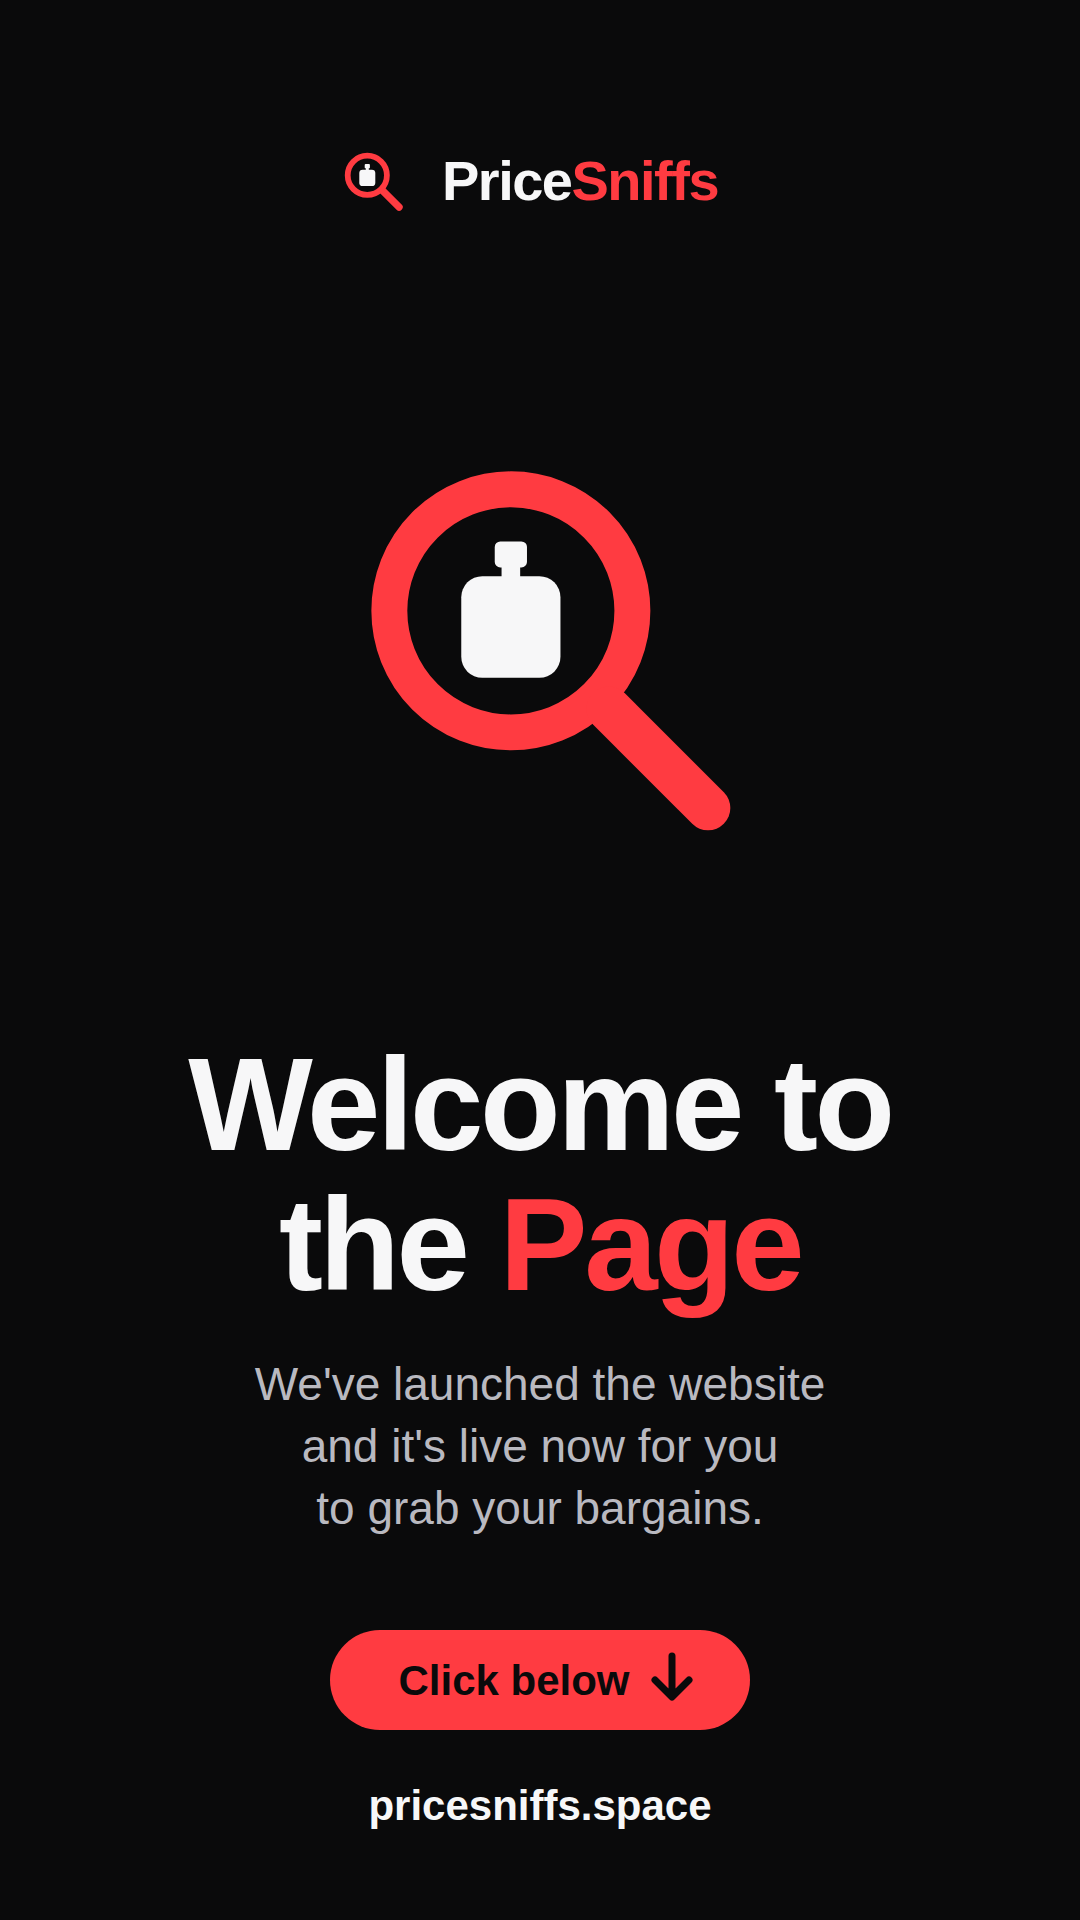
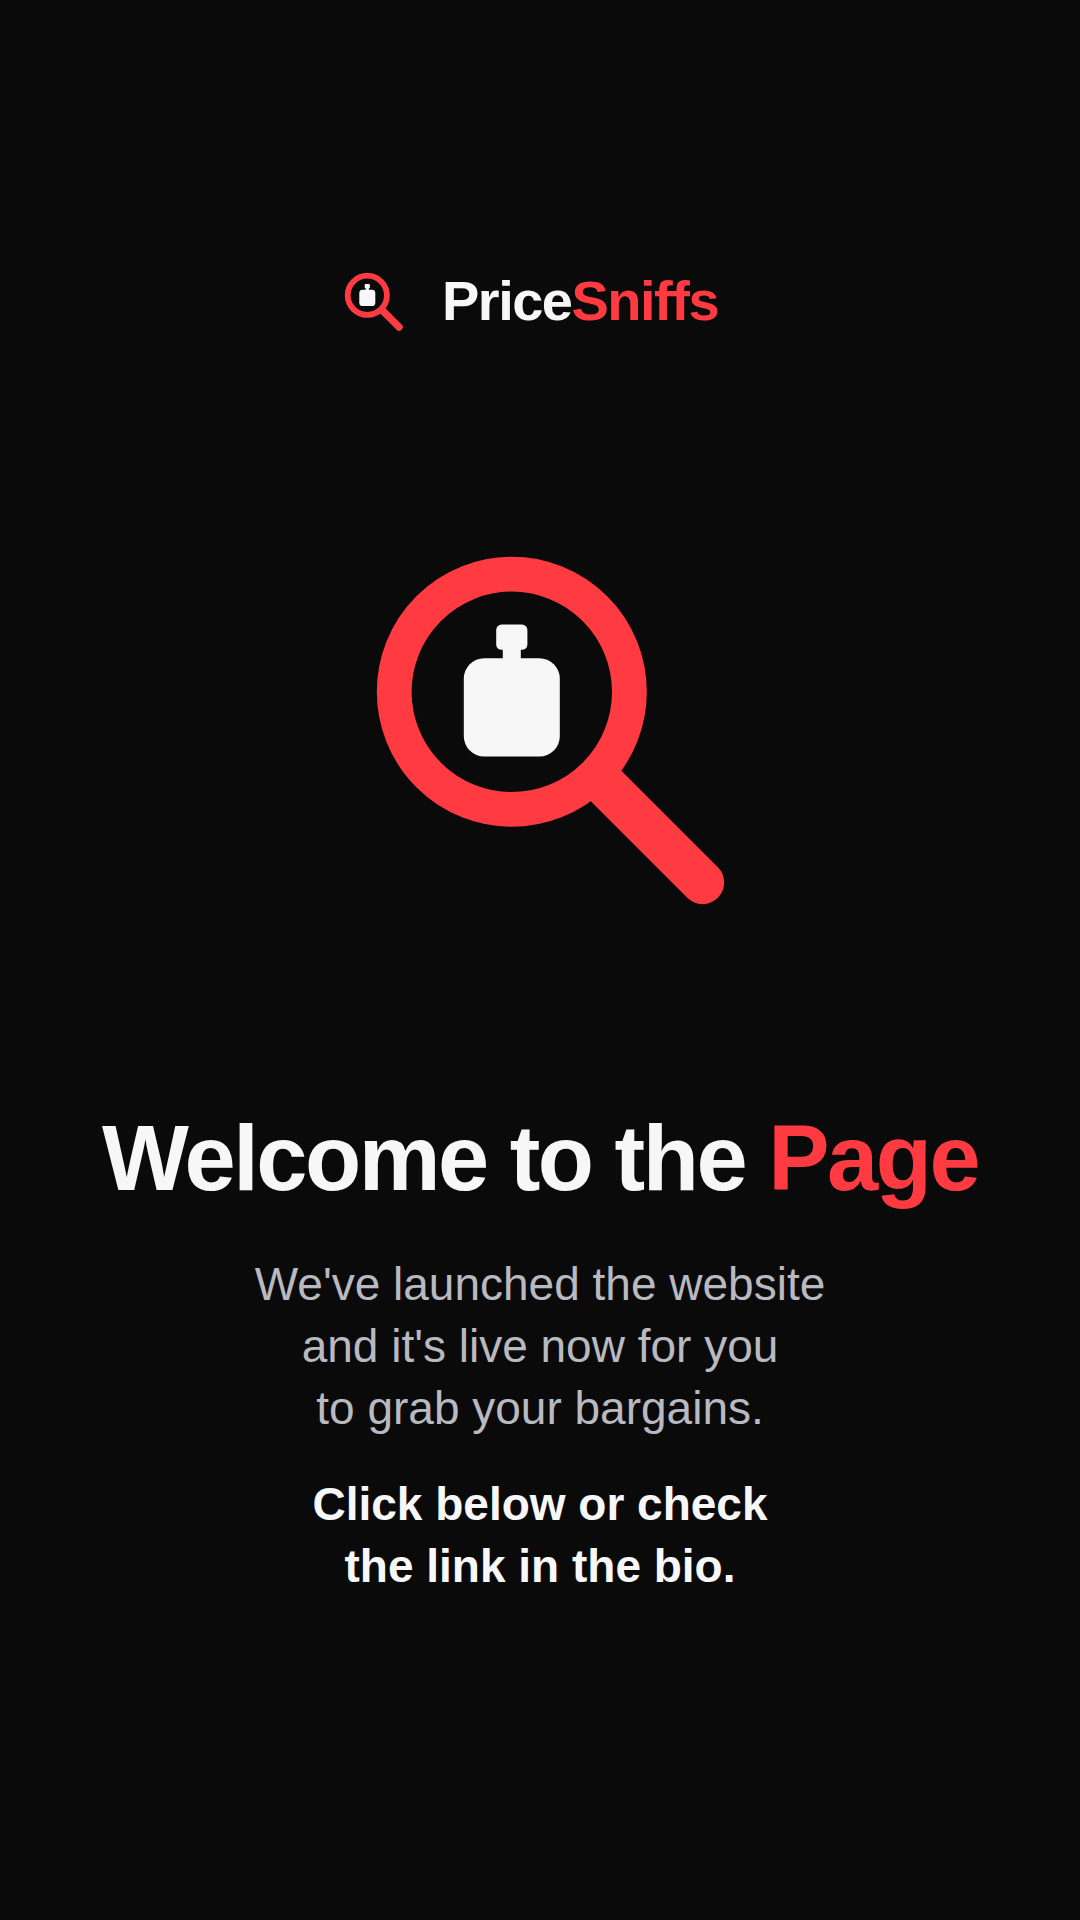
Launch post: one line headline, link in bio call to action, story safe zone
Claude-Session: https://claude.ai/code/session_01R3frsh37eDNrxM6REtigC8

diff --git a/social/DESIGN-SYSTEM.md b/social/DESIGN-SYSTEM.md
@@ -28,10 +28,10 @@ size unless a platform needs another one.
 
 | Role | Weight | Size on the 1080 x 1920 canvas | Letter spacing |
 |---|---|---|---|
-| Headline | Bold 700 | 132px, two lines at most, centred | -3.5 |
+| Headline | Bold 700 | 92px, **one line**, centred | -2.5 |
 | Wordmark | Bold 700 | 56px | -1.5 |
 | Body | Regular 400 | 46px, three lines at most, about 28 characters a line, centred | 0 |
-| Button and address | Bold 700 | 42px | 0 |
+| Call to action | Bold 700, white | 46px, two lines at most, centred. Default: "Click below or check the link in the bio." | 0 |
 
 For the 16:9 landscape layout, use the sizes in its template file.
 
@@ -44,8 +44,13 @@ them, never stretch them, never put them on anything but the black.
 ## 4. Layouts
 
 Every vertical layout has the same skeleton, top to bottom and centred:
-wordmark, the large mark, headline, body, call to action pill, address.
-Margins are at least 90px at the sides.
+wordmark, the large mark, the one line headline, body, call to action. No
+buttons and no web address on the image: the call to action points to the
+link below the post or in the bio. Margins are at least 90px at the sides.
+
+**Safe zone:** keep everything between y 250 and y 1670. Instagram and TikTok
+draw their own name bar over the top 250px of a story and their reply bar
+and buttons over the bottom 250px.
 
 | Template | Size | Use for |
 |---|---|---|
